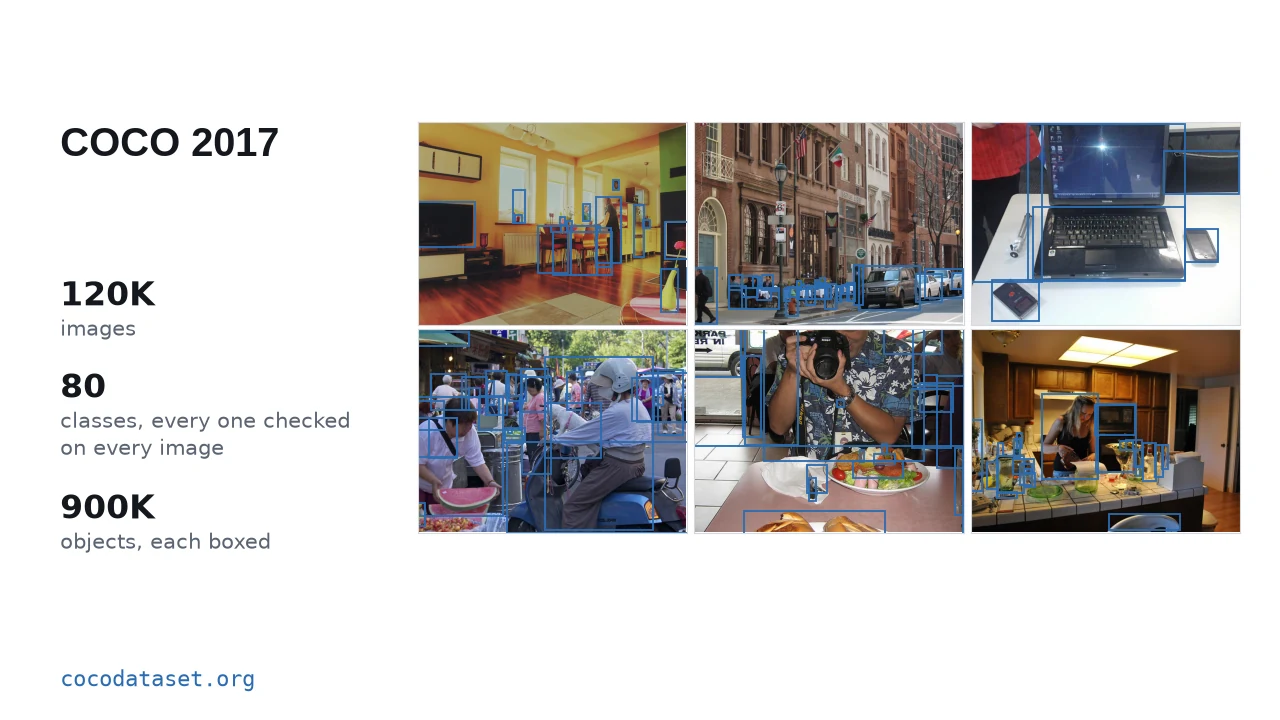
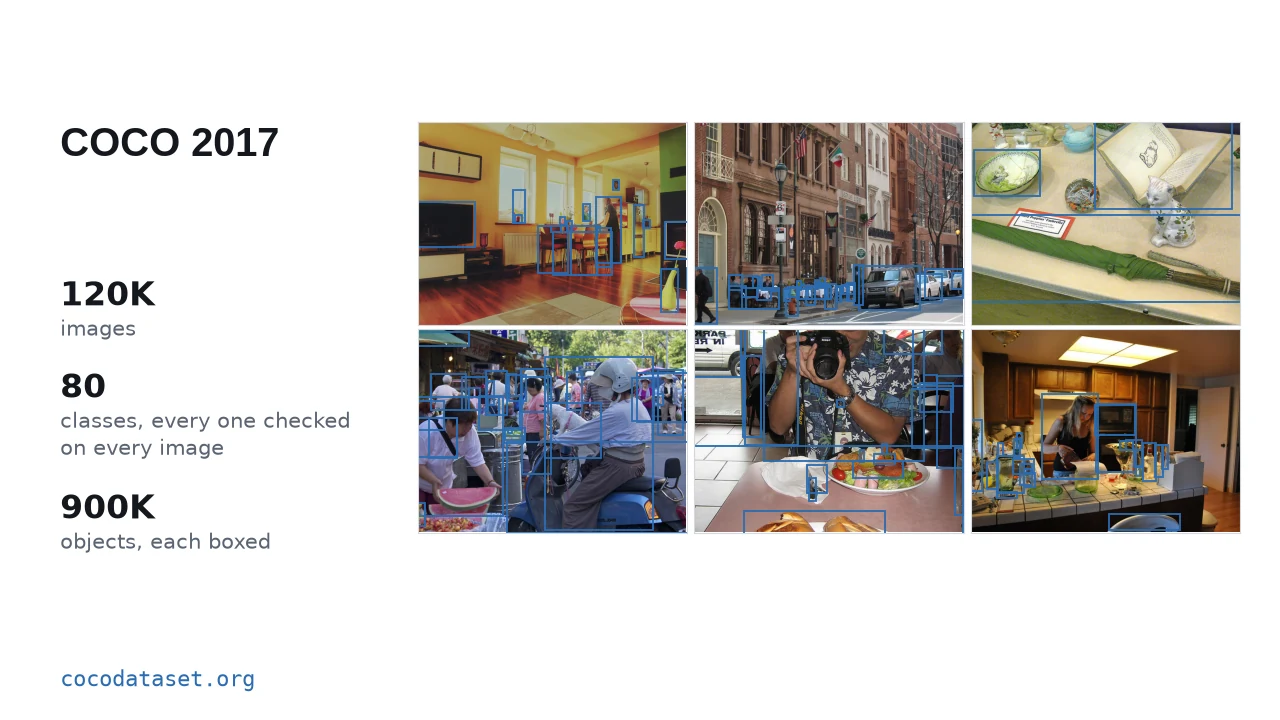
slides: 28c zooms on Mary Poppins' umbrella, not a desk with a mislabelled remote
The COCO zoom's exemplar is now val2017 96001: a museum case with a
book, a bowl and the umbrella, each box plainly what it says, and
objects in none of the 80 classes left unboxed beside them — a
paperweight, a placard, a glass hen. It takes the old desk's place in
the grid, and is drawn whole at its own 3:2 so the full-width umbrella
box keeps its ends. The notes point at what has no box.

Refs #4176

Claude-Session: https://claude.ai/code/session_01LY5UaZUk3jYYutMuVTkYR5

Changed region(s): [[0.75, 0.1528, 0.9688, 0.4583]]

diff --git a/slides/figs/src/make-data-cards.py b/slides/figs/src/make-data-cards.py
@@ -116,29 +116,42 @@ def frame_caltech() -> Any:
 COCO_IMAGES = 123_287
 COCO_OBJECTS = 886_284  # boxes, crowd regions excluded
 
-#: Six val2017 frames for the 3x2 grid: rooms and streets with several classes
-#: each. `COCO_ZOOM` is one of them, the one the next frame blows up — a desk
-#: with six classes and nothing crowding, so each line to a box can be followed.
-COCO_GRID = (139, 67616, 26465, 139099, 350148, 246968)
-COCO_ZOOM = 26465
-#: The category column for the zoom, in the order listed: what is on the desk,
-#: interleaved with what an office photo plausibly *could* hold and does not.
+#: Six val2017 frames for the 3x2 grid: rooms, streets and tables with several
+#: classes each. `COCO_ZOOM` is one of them, the one the next frame blows up.
+COCO_GRID = (139, 67616, 96001, 139099, 350148, 246968)
+#: The zoom: a museum case holding Mary Poppins' umbrella, beside an open book
+#: and a bowl — three classes, every box plainly what it says it is (the desk
+#: this replaced had a card reader boxed as a `remote`, #4176) — and, just as
+#: plainly, things nobody boxed: a glass paperweight, a placard, a glass hen.
+#: Those are the frame's second point: COCO answers for its 80 classes on every
+#: image, and *only* for those, so an object outside them is simply not there
+#: as far as the annotation goes.
+COCO_ZOOM = 96001
+#: Drawn whole, at the photograph's own 3:2 rather than the grid's 4:3: the
+#: umbrella's box runs the full width of the frame, and a 4:3 crop cut its two
+#: ends off and left it as a pair of loose lines.
+COCO_ZOOM_ASPECT = 3 / 2
+#: The category column for the zoom, in the order listed: what is in the case,
+#: interleaved with what a display like it plausibly *could* hold and does not.
 #: As long as the column has room for — the zoom is as tall as the media area,
-#: and every grey name is one more checked absence the room can read.
+#: and every grey name is one more checked absence the room can read. No `cat`
+#: or `dog`, though both are absent as boxes: the case holds china figurines of
+#: both, and a grey "cat" beside a china cat asks a question this frame is not
+#: about.
 COCO_ZOOM_LIST = (
-    "laptop",
-    "mouse",
-    "keyboard",
-    "cell phone",
     "book",
-    "remote",
     "cup",
-    "chair",
-    "tv",
-    "person",
+    "bowl",
+    "vase",
+    "umbrella",
     "clock",
-    "bottle",
     "scissors",
+    "bottle",
+    "wine glass",
+    "cell phone",
+    "spoon",
+    "teddy bear",
+    "handbag",
     "potted plant",
 )
 
@@ -156,8 +169,8 @@ def _coco() -> tuple[Path, dict, dict[int, list[dict]], dict[int, str]]:
     return images, coco, by_image, names
 
 
-def _coco_tile(image_id: int, keep=None, rename=None) -> tuple[dc.Tile, list[tuple[str, tuple]]]:
-    """A val2017 frame cropped to 4:3, with its boxes moved by the same crop.
+def _coco_tile(image_id: int, keep=None, rename=None, aspect: float = 4 / 3) -> tuple[dc.Tile, list[tuple[str, tuple]]]:
+    """A val2017 frame cropped to `aspect` (4:3), with its boxes moved by the same crop.
 
     `keep(name)` filters which classes are drawn; `rename(name)` maps a COCO
     class to the name the card shows. Returns the tile and `(name, box)` pairs.
@@ -167,7 +180,7 @@ def _coco_tile(image_id: int, keep=None, rename=None) -> tuple[dc.Tile, list[tup
     images, coco, by_image, names = _coco()
     meta = next(i for i in coco["images"] if i["id"] == image_id)
     with Image.open(images / meta["file_name"]) as frame:
-        tile, (dx, dy) = dc.fit_tile(frame)
+        tile, (dx, dy) = dc.fit_tile(frame, aspect)
     pairs = []
     for a in by_image[image_id]:
         name = names[a["category_id"]]
@@ -202,14 +215,14 @@ def frame_coco_grid() -> Any:
 def frame_coco_zoom() -> Any:
     fig = dc.blank()
     _coco_left(fig)
-    tile, pairs = _coco_tile(COCO_ZOOM)
+    tile, pairs = _coco_tile(COCO_ZOOM, aspect=COCO_ZOOM_ASPECT)
     present = collections.defaultdict(list)
     for name, box in pairs:
         present[name].append(box)
     missing = set(present) - set(COCO_ZOOM_LIST)
     if missing:
         raise SystemExit(f"coco zoom: {sorted(missing)} are boxed in {COCO_ZOOM} but not listed")
-    dc.zoom(fig, tile, [(name, present.get(name, [])) for name in COCO_ZOOM_LIST])
+    dc.zoom(fig, tile, [(name, present.get(name, [])) for name in COCO_ZOOM_LIST], aspect=COCO_ZOOM_ASPECT)
     return fig
 
 

diff --git a/slides/fragments/data-set-coco.md b/slides/fragments/data-set-coco.md
@@ -24,12 +24,17 @@
      boxed. 123,287 images exactly, across train and val, and 80
      classes. -->
 
-<!-- **c** — The zoom, bigger than its cell in the grid. Blue names are in the
-     picture, each joined to its box.
-     Grey names are not — and that is the property the rest of this section
-     leans on: COCO answers for all 80 classes on every image, so a grey name
-     is a *checked* absence, not an unmentioned one. There is no mouse on
-     this desk, and COCO says so. -->
+<!-- **c** — The zoom, bigger than its cell in the grid: a museum case with
+     Mary Poppins' umbrella in it. Blue names are in the picture, each joined
+     to its box — a book, a bowl, the umbrella. Grey names are not, and that is
+     the property the rest of this section leans on: COCO answers for all 80
+     classes on every image, so a grey name is a *checked* absence, not an
+     unmentioned one. There is no cup in this case, and COCO says so. -->
+
+<!-- And look at what has no box: the glass paperweight, the placard, the
+     glass hen. Plainly objects, and none of them is one of the 80 — so as far
+     as the annotation goes they are not there. "Checked" means checked for
+     *these* classes, and only these. -->
 
 <!-- Not a gold standard: two prohibition circles and a school-crossing
      paddle labelled `stop sign`, a box on a hedge labelled `umbrella`. Better
